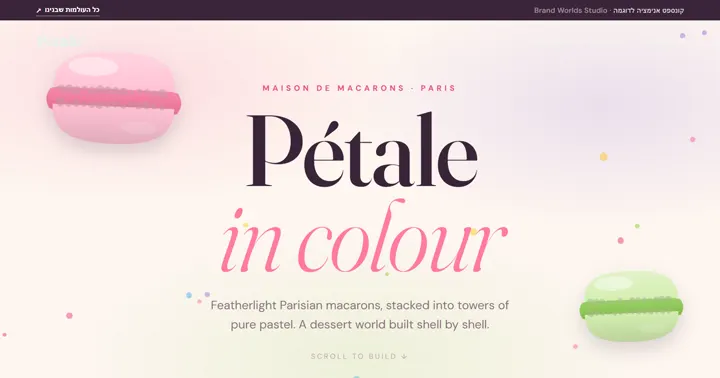
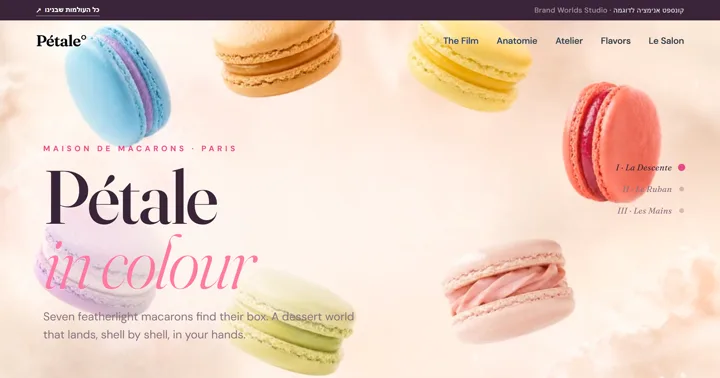
fix(petale): mobile image heights + OG as hero screenshot with topbar band
- geste/salon stills rendered 900px tall on phones: the HTML height attr
  won over aspect-ratio once CSS set width. height:auto restores 4:3.
- petale-og.png is now a 2x screenshot of the live film hero (mid-descent)
  including the dark topbar, matching the other worlds' cards on the
  homepage; brand-worlds thumb regenerated from it.
- Homepage motion-card tagline updated from tower to the three-chapter film.

diff --git a/petale.html b/petale.html
@@ -376,7 +376,7 @@
   .gestes{max-width:1100px;margin:26px auto 0;display:grid;grid-template-columns:repeat(4,1fr);gap:18px}
   .geste{background:#fff;border-radius:22px;overflow:hidden;border:1px solid rgba(255,255,255,.7);
     box-shadow:0 16px 36px -24px rgba(58,36,56,.35)}
-  .geste img{display:block;width:100%;aspect-ratio:4/3;object-fit:cover;transition:transform .8s cubic-bezier(.2,.8,.2,1)}
+  .geste img{display:block;width:100%;height:auto;aspect-ratio:4/3;object-fit:cover;transition:transform .8s cubic-bezier(.2,.8,.2,1)}
   .geste:hover img{transform:scale(1.04)}
   .geste .body{padding:16px 18px 18px}
   .geste .n{font-family:"Fraunces",serif;font-style:italic;font-size:17px}
@@ -427,7 +427,7 @@
   .salon-quote .he{margin-top:16px;font-size:17px;text-align:center}
   .salon-pair{max-width:1180px;margin:52px auto 0;display:grid;grid-template-columns:1fr 1fr;gap:22px}
   .salon-pair figure{margin:0;border-radius:26px;overflow:hidden;position:relative;box-shadow:0 30px 60px -36px rgba(58,36,56,.45)}
-  .salon-pair img{display:block;width:100%;aspect-ratio:4/3;object-fit:cover;transition:transform .9s cubic-bezier(.2,.8,.2,1)}
+  .salon-pair img{display:block;width:100%;height:auto;aspect-ratio:4/3;object-fit:cover;transition:transform .9s cubic-bezier(.2,.8,.2,1)}
   .salon-pair figure:hover img{transform:scale(1.035)}
   .salon-pair figcaption{position:absolute;left:0;right:0;bottom:0;padding:44px 22px 18px;color:#fff;
     background:linear-gradient(180deg,transparent,rgba(58,36,56,.55));font-family:"Fraunces",serif;font-style:italic;font-size:16px}

diff --git a/index.html b/index.html
@@ -2332,7 +2332,7 @@ document.addEventListener('DOMContentLoaded', function () {
                 <div class="motion-card__img" style="background-image:url('petale-og.png')"></div>
                 <div class="motion-card__body">
                     <p class="motion-card__name">Pétale°</p>
-                    <p class="motion-card__tagline">מגדל מקרונים נבנה בגלילה — שבעה טעמי פסטל פריזאיים, שכבה אחר שכבה.</p>
+                    <p class="motion-card__tagline">סרט בשלושה פרקים — שבעה מקרונים יורדים לקופסה, הסרט נקשר, והיא עוברת לידיים. הקופסה נשארת, הסיפור זז.</p>
                     <span class="motion-card__cta">צפו בקונספט <span class="motion-card__cta-arrow" aria-hidden="true">→</span></span>
                 </div>
             </a>
